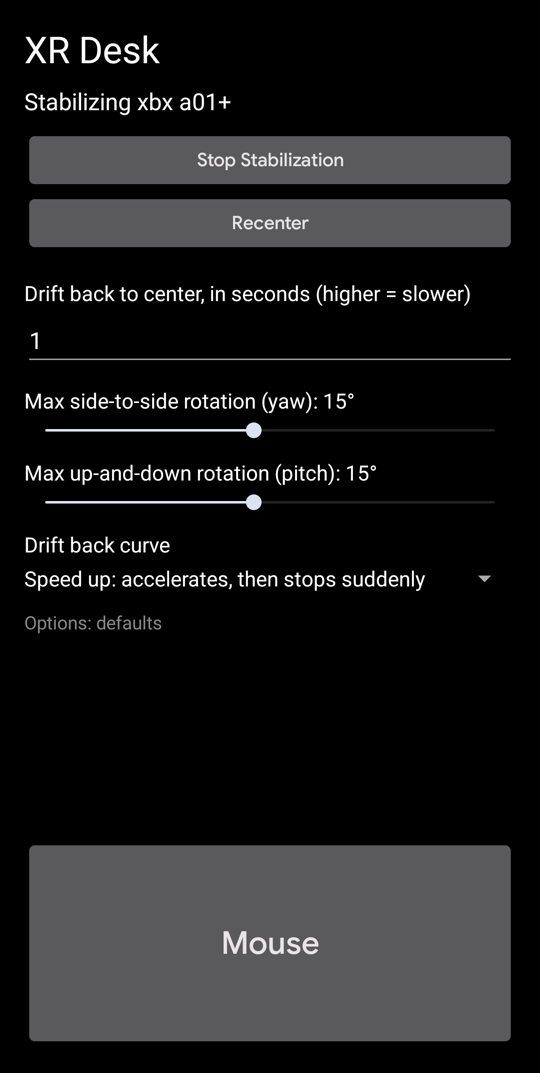
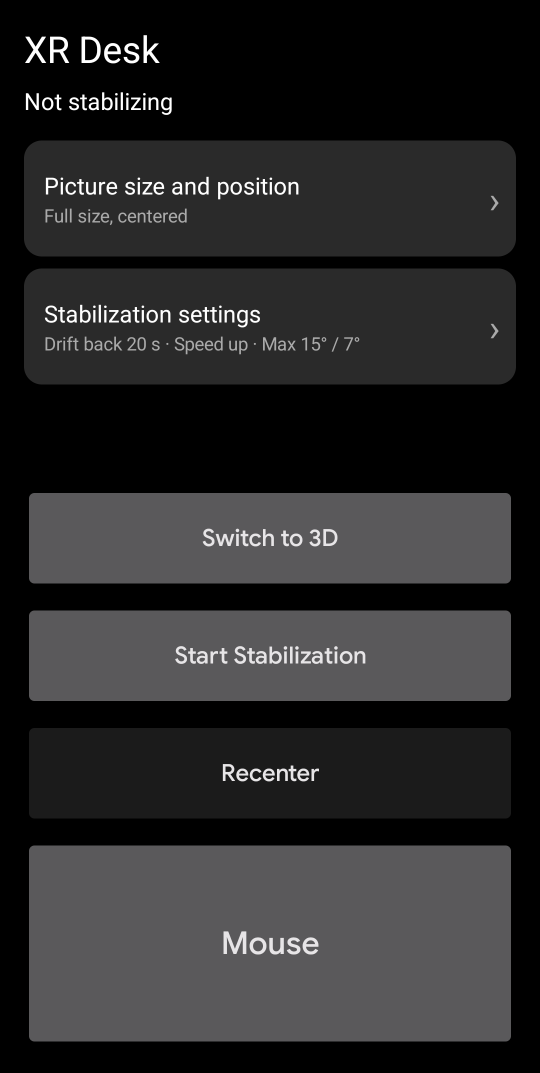
README: shorter and plainer, with current screenshots
Rewritten for people who aren't developers: Known limits folded into the
sections they apply to, Mouse and Typing merged, "Why Shizuku?" folded
into the requirements, technical terms (yaw/pitch, SBS, 3DoF, input
focus) and internal details dropped, and the glasses' 3D menu warning
made a warning box. About a quarter shorter. New screenshots of the
main, mouse and typing screens (the 3D buttons, settings moved off the
main screen).

diff --git a/README.md b/README.md
@@ -1,6 +1,7 @@
 # XR Desk
 
-This android app enables advanced screen stabilization for the XReal XBX A01+ XR glasses as well as pointer based mouse and keyboard control.
+An Android app that adds advanced screen stabilization to XREAL xbx a01+ glasses, and lets you
+use your phone as a pointer-style mouse and keyboard.
 
 > [!NOTE]
 > This app was completely vibecoded with Opus 5.5.
@@ -13,168 +14,144 @@ This android app enables advanced screen stabilization for the XReal XBX A01+ XR
 
 [![Watch the demo](https://img.youtube.com/vi/kCf_8hHDI9E/maxresdefault.jpg)](https://www.youtube.com/watch?v=kCf_8hHDI9E)
 
-### 3DoF Mouse and Keyboard Control
+### Mouse and keyboard
 
-Note that the mouse cursor looks normal in the glasses, but doesn't show up in screen recordings, so enabled some developer tool settings to allow you to see where the mouse would be.
+The cursor looks normal in the glasses but doesn't show up in screen recordings, so I turned on
+some developer settings to show where it would be.
 
 [![Watch the demo](https://img.youtube.com/vi/WlOdrEsqxr8/maxresdefault.jpg)](https://www.youtube.com/watch?v=WlOdrEsqxr8)
 
 ### Screenshots
 
 <p>
-  <img src="docs/main-screen.png" width="270" alt="Main screen: Stop Stabilization, Recenter and Mouse, the drift time, max rotation and drift curve">
-  <img src="docs/mouse-screen.png" width="270" alt="Mouse screen: Back, Center cursor, Center screen, the mouse and scroll speeds, reverse scrolling, Right and Left click and the scroll strip">
-  <img src="docs/typing-screen.png" width="270" alt="Typing: the phone's keyboard open below the click buttons and scroll strip, typing into a text box on the glasses">
+  <img src="docs/main-screen.png" width="270" alt="Main screen: Picture size and position, Stabilization settings, Switch to 3D, Start Stabilization, Recenter and Mouse">
+  <img src="docs/mouse-screen.png" width="270" alt="Mouse screen: Back, Center cursor and Hold for 3D at the top, the mouse and scroll speed sliders, Reverse scroll direction, Right click, Left click and the scroll strip">
+  <img src="docs/typing-screen.png" width="270" alt="Typing: the phone's keyboard open below Right click, Left click and the scroll strip">
 </p>
 
-## Features
+## What it does
 
-- **Stabilization**: the picture stays put when you move your head a little, then drifts back
+- **Steadier picture**: the picture stays put when you move your head a little, then drifts back
   to center.
-- **Phone as a mouse**: point the top of the phone at the glasses' screen to move the cursor;
-  left click, right click, drag and scroll.
-- **Phone as a keyboard**: click a text box on the glasses and your phone's keyboard opens,
-  typing straight into it, autocorrect included.
-- **Picture size and position**: shrink the whole desktop inside the glasses' display or zoom
-  in on it, and move it where it's easiest to see.
-- **3D videos**: switch the glasses to side-by-side 3D and back from the phone, or with the
-  glasses' menu button.
+- **Phone as a mouse**: point your phone to move the cursor; click, drag and scroll.
+- **Phone as a keyboard**: type on the glasses with your phone's keyboard, autocorrect included.
+- **Picture size and position**: shrink or zoom the whole desktop and move it where it's easiest
+  to see.
+- **3D videos**: switch the glasses to 3D and back.
 
-## Requirements
+## What you need
 
-- **XREAL xbx a01 or a01+ glasses**, connected to the phone over USB-C. Stabilization reads
-  their motion sensor; other glasses aren't supported yet.
-- **An Android phone that drives the glasses as a desktop**, with Android 14 or newer. XR Desk is
-  developed and tested on a Pixel 9a with Android 17. It relies on parts of Android that aren't
-  official APIs, so other phones and versions may not work.
-- **[Shizuku](https://shizuku.rikka.app/)**, which gives XR Desk the extra permissions it needs
-  (see below). No root needed.
+- **XREAL xbx a01 or a01+ glasses**, plugged into the phone with USB-C. Other glasses aren't
+  supported yet.
+- **An Android 14 or newer phone that shows a desktop on the glasses.** XR Desk is made and
+  tested on a Pixel 9a with Android 17. It uses hidden parts of Android, so other phones may not
+  work, and a phone update may break it.
+- **[Shizuku](https://shizuku.rikka.app/)**, a free app. To move the picture and control the
+  glasses, XR Desk needs permissions that normal apps don't get. Shizuku gives them through
+  Android's own debugging access, without rooting the phone.
 
 ## Install
 
-1. **Install Shizuku** from [Google Play](https://play.google.com/store/apps/details?id=moe.shizuku.privileged.api)
-   or its [GitHub releases](https://github.com/RikkaApps/Shizuku/releases), open it and start it
-   with **Wireless debugging** (Shizuku walks you through it; it needs Developer options turned
-   on). Start Shizuku again after each reboot of the phone.
-2. **Install XR Desk**: download the latest `xrdesk-<version>.apk` from
-   [Releases](https://github.com/ermay12/xrdesk/releases/latest) on the phone and open it. Allow
-   installing apps from your browser or file manager when asked.
-3. **Plug in the glasses and open XR Desk.** Allow XR Desk to
-   use Shizuku, to show notifications, and to access the glasses. For the glasses, choose **Always allow**, so you
-   aren't asked again each time you plug them in.
+1. **Install Shizuku** from
+   [Google Play](https://play.google.com/store/apps/details?id=moe.shizuku.privileged.api) or
+   [GitHub](https://github.com/RikkaApps/Shizuku/releases). Open it and start it with
+   **Wireless debugging**; Shizuku shows you how (you'll need to turn on Developer options).
+   **Start Shizuku again each time you restart your phone.**
+2. **Install XR Desk.** On your phone, download the latest `xrdesk-<version>.apk` from
+   [Releases](https://github.com/ermay12/xrdesk/releases/latest) and open it. If asked, allow your
+   browser or file manager to install apps.
+3. **Plug in the glasses and open XR Desk.** Allow it to use Shizuku, show notifications and
+   access the glasses. For the glasses, choose **Always allow**, so you aren't asked every time.
 
-Why Shizuku? Moving the glasses' picture, sending mouse input to the glasses and showing their
-keyboard on your phone all need permissions that normal apps don't get. Shizuku lets XR Desk use
-them through Android's own debugging access, without rooting the phone.
+## How to use
 
-## Use
+XR Desk keeps running, with its notification, until you unplug the glasses. Open it again each
+time you plug them back in.
 
 ### Stabilization
 
-- **Start Stabilization** / **Stop Stabilization** turns it on and off; **Recenter** puts the
-  picture back in the middle. Both are at the bottom of the screen, just above Mouse. The
-  notification has them too.
-- Tap **Stabilization settings** to tune it. **Drift back to center** is how long the picture
-  takes to come back after you move your head, in seconds; higher is slower. A large number,
-  like 400, anchors the picture: it stays put until you recenter. **Max side-to-side
-  rotation (yaw)** and **Max up-and-down rotation (pitch)** are how far it compensates in each
-  direction before following you.
-- **Drift back curve**: _Speed up_ (the default) accelerates then stops suddenly, _Smooth_ eases
-  in and out, _Exponential_ is fastest at first, and _Linear_ moves at a constant speed.
-
-### The glasses' buttons
-
-Once you open XR Desk, the glasses send their button presses to it instead of handling them, so
-their own menu doesn't open. The **menu button** switches between 2D and 3D (see
-[3D videos](#3d-videos)); the **volume buttons** change the phone's media volume, and repeat
-while held. This works whether or not you're stabilizing.
-
-XR Desk keeps running, with its notification, until you unplug the glasses; that's when they get
-their buttons back. Open XR Desk again after plugging them back in.
+- Tap **Start Stabilization** to turn it on (it's off when XR Desk opens) and
+  **Stop Stabilization** to turn it off. **Recenter** brings the picture back in front of you.
+  These buttons are also in XR Desk's notification.
+- Tap **Stabilization settings** to adjust it:
+  - **Drift back to center**: how many seconds the picture takes to come back. A large number,
+    like 400, keeps it in place until you tap **Recenter**.
+  - **Max side-to-side rotation** and **Max up-and-down rotation**: how far you can turn your
+    head before the picture follows you.
+  - **Drift back curve**: how the picture moves on its way back (_Speed up_, the default,
+    _Smooth_, _Exponential_ or _Linear_).
 
 ### Picture size and position
 
-- Tap **Picture size and position** and watch the glasses while you adjust. Drag up and down
-  on **Size** to resize the whole desktop: down to 50%, with a black border around it, or up to
-  200%, which zooms in and cuts off its edges. Drag on **Move** to move it side to side or up and
-  down, even partly off the display (or, zoomed in, to see its edges). Only how far you drag
-  counts, not where you touch, and the phone ticks every 5% and clicks at the center and at 100%,
-  so you can do it without looking.
-- **Center picture** puts it back in the middle; **Full size** sets it back to 100%. Leave with
-  **Back** at the top. Recenter and the drift back go to the position you set.
-- They apply whether stabilizing or not: while either is changed, XR Desk keeps running after
-  Stop Stabilization, with its notification.
-- With a smaller picture, stabilization slides it into the border instead of cutting off its
-  edges. A smaller picture also uses fewer of the glasses' pixels, so small text gets a little
-  softer.
+Tap **Picture size and position** and watch the glasses as you adjust.
 
-### Mouse
+- Drag up and down on **Size** to shrink the desktop (down to 50%) or zoom in (up to 200%, which
+  cuts off its edges).
+- Drag on **Move** to move it.
+- Both work like a trackpad, and the phone ticks as you drag, so you don't need to look at it.
+- **Center picture** puts it back in the middle; **Full size** sets it back to 100%. **Back**
+  returns to the main screen.
 
-Tap **Mouse**, the big button at the bottom of the screen, easy to find with your thumb while
-wearing the glasses. It works with or without stabilization.
+This works with or without stabilization. A smaller picture keeps its edges in view while
+stabilizing, but small text gets a little softer.
 
-- **Point** with the top edge of the phone. **Center cursor** puts the cursor back in the middle.
-  To recenter the stabilized picture, use Recenter on the main screen or in the notification.
-- **Hold for 3D** (top right) switches the glasses to 3D, and **Hold for 2D** back; hold it for
-  half a second. See [3D videos](#3d-videos).
-- After a click, the window you clicked keeps input focus while you use the mouse screen, and
-  the phone's volume buttons change the volume as usual.
-- **Right click** and **Left click** are at the bottom left; hold Left click and turn the phone
-  to drag. The cursor holds still while you press, so a tap doesn't become a drag.
-- **Scroll** by dragging up and down on the scroll strip: drag down to scroll down, like a scroll
-  bar, or switch on **Reverse scroll direction** to drag the page like a touch screen.
-- The two **Mouse speed** sliders set how far the cursor moves when you turn the phone side to
-  side and when you tilt it up and down; **Scroll speed** sets how far a drag scrolls.
-- Leave with the **Back** button at the top. (The phone's own Back gesture doesn't leave the
-  mouse screen, so you can't leave by accident.)
+### Mouse and keyboard
 
-### Typing
+Tap **Mouse**, the big button at the bottom, easy to find with your thumb while wearing the
+glasses.
 
-On the mouse screen, click a text box on the glasses and your phone's keyboard opens, with a short
-buzz so you know without looking; type as usual. The buttons fill the space above the keyboard,
-and typing ends by itself when the keyboard closes (or press Back). After closing the keyboard,
+- **Point** the top edge of the phone to move the cursor. **Center cursor** brings it back to
+  the middle.
+- Click with **Left click** and **Right click**. To drag, hold **Left click** and turn the phone.
+- **Scroll**: drag up and down on the scroll strip. Turn on **Reverse scroll direction** to drag
+  the page like on a touch screen.
+- The **Mouse speed** and **Scroll speed** sliders set how far the cursor moves when you turn
+  the phone, and how far a drag scrolls.
+- **Hold for 3D**: hold it for half a second to switch to 3D. It then says **Hold for 2D**, to
+  switch back. See [3D videos](#3d-videos).
+- **Back** at the top leaves the mouse screen. The phone's own Back gesture doesn't, so you can't
+  leave by accident.
+
+**Typing:** on the mouse screen, click a text box on the glasses. Your phone's keyboard opens
+with a short buzz, and what you type goes to the glasses. Typing ends when the keyboard closes;
 click the text box again to bring it back.
 
 ### 3D videos
 
-The glasses can show side-by-side (SBS) 3D: the left half of the picture goes to your left eye
-and the right half to your right eye. The whole desktop is split the same way, so it's hard to
-use in 3D; find and start the video in 2D first.
+This is for side-by-side 3D videos: the left half of the picture goes to your left eye and the
+right half to your right eye, each stretched to full width. The whole desktop is split the same
+way, so find and start the video in 2D first.
 
-1. Open the video and make it fullscreen, using the mouse screen.
+1. With the mouse, open the video and make it full screen.
 2. Switch to 3D: tap **Switch to 3D** on the main screen, hold **Hold for 3D** on the mouse
-   screen for half a second, or press the glasses' menu button. The glasses go dark for a few
-   seconds, then the phone buzzes twice.
-3. Pause and seek with the phone's media controls (in the notification shade), or with the
-   mouse screen. The cursor shows in one eye at a time: it starts in your left eye's view, and
-   moved past that view's right edge it carries on in your right eye's view, from its left edge.
-   Leave the mouse screen to hide it.
+   screen, or press the glasses' menu button. The glasses go dark for a few seconds, then the
+   phone buzzes twice.
+3. Pause and skip with the media controls in your phone's notifications, or with the mouse. The
+   cursor shows in one eye at a time: it starts in the left, and moves to the right eye when you
+   push it past the right edge. Leave the mouse screen to hide it.
 4. Switch back to 2D the same ways, or with **Switch to 2D** in XR Desk's notification.
 
 In 3D, stabilization only corrects up-and-down head movement, and the picture is full size and
-centered: moving or resizing it sideways would put parts of the picture in the wrong eye. Your
-picture size and position come back in 2D. The glasses are always in 2D after being plugged in.
+centered. Your size and position come back in 2D. The glasses always start in 2D when plugged in.
 
-Without XR Desk, avoid the 3D item in the glasses' own menu: on phones that can only send
-half-width 3D (like the Pixel 9a), it switches to full-width 3D, and the picture is lost until
-you unplug the glasses.
+> [!WARNING]
+> Without XR Desk, don't use 3D from the glasses' own menu. It switches to a kind of 3D that
+> phones like the Pixel 9a can't send, and you lose the picture until you unplug the glasses.
 
-## Known limits
+### The glasses' buttons
 
-- Only XREAL xbx a01 and a01+ glasses are supported.
-- Phone updates may break XR Desk, since it uses parts of Android that aren't public APIs.
-- While the mouse screen is open, the glasses' keyboard appears on the phone.
-- Once XR Desk is open, the glasses' own menu (brightness and so on) isn't available until you
-  unplug them (see [The glasses' buttons](#the-glasses-buttons)).
-- 3D is half-width side by side (each eye sees 960 × 1080 pixels, stretched).
+Once you open XR Desk, the glasses' **menu button** switches between 2D and 3D (see
+[3D videos](#3d-videos)), and their **volume buttons** change the phone's media volume (hold to
+keep changing it). This works whether or not you're stabilizing, but not during a switch between
+2D and 3D.
+
+The glasses' own menu (brightness and so on) isn't available until you unplug them.
 
 ## Building from source
 
-See [BUILDING.md](BUILDING.md) for building, the developer workflow and how XR Desk works inside.
+Developers: see [BUILDING.md](BUILDING.md) for how to build XR Desk and how it works.
 
 ## License
 
-XR Desk is free software under the [GNU General Public License v3.0](LICENSE) or later: you can
-use, study, change and share it, and if you distribute a changed version, you must share its
-source under the same license. The APK includes the
-[Shizuku API library](https://github.com/RikkaApps/Shizuku-API) (Apache License 2.0).
+XR Desk is free software under the [GNU General Public License v3.0](LICENSE) or later. The APK
+includes the [Shizuku API library](https://github.com/RikkaApps/Shizuku-API) (Apache License 2.0).
